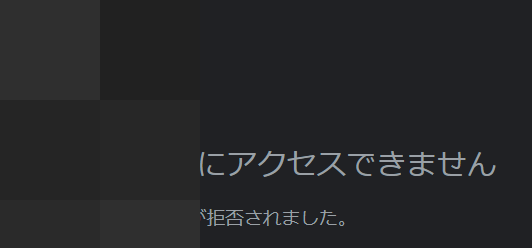
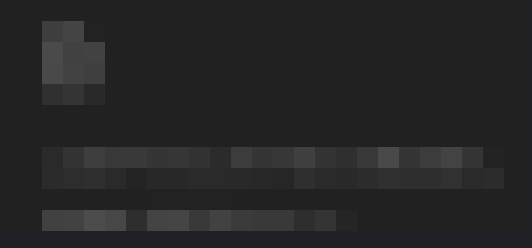
fix

diff --git a/main.py b/main.py
@@ -43,9 +43,9 @@ def mosaic_image() -> np.ndarray:
     print("height:{}\nwidth:{}".format(height, width))
     print("height // x = {}\nwidth // y = {}".format(height // x, width // y))
 
-    # 割り切れる部分をモザイク
-    for i in tqdm((range(width // y))):
-        for j in range((height // x)):
+    # 割り切れる部分をモザイク化
+    for i in tqdm((range(height // x))):
+        for j in range((width // y)):
             # 各画素を取得
             pixel_list.append(img[i * y : i * y + y, j * x : j * x + x].reshape(-1))
             # 各画素の平均値を計算
